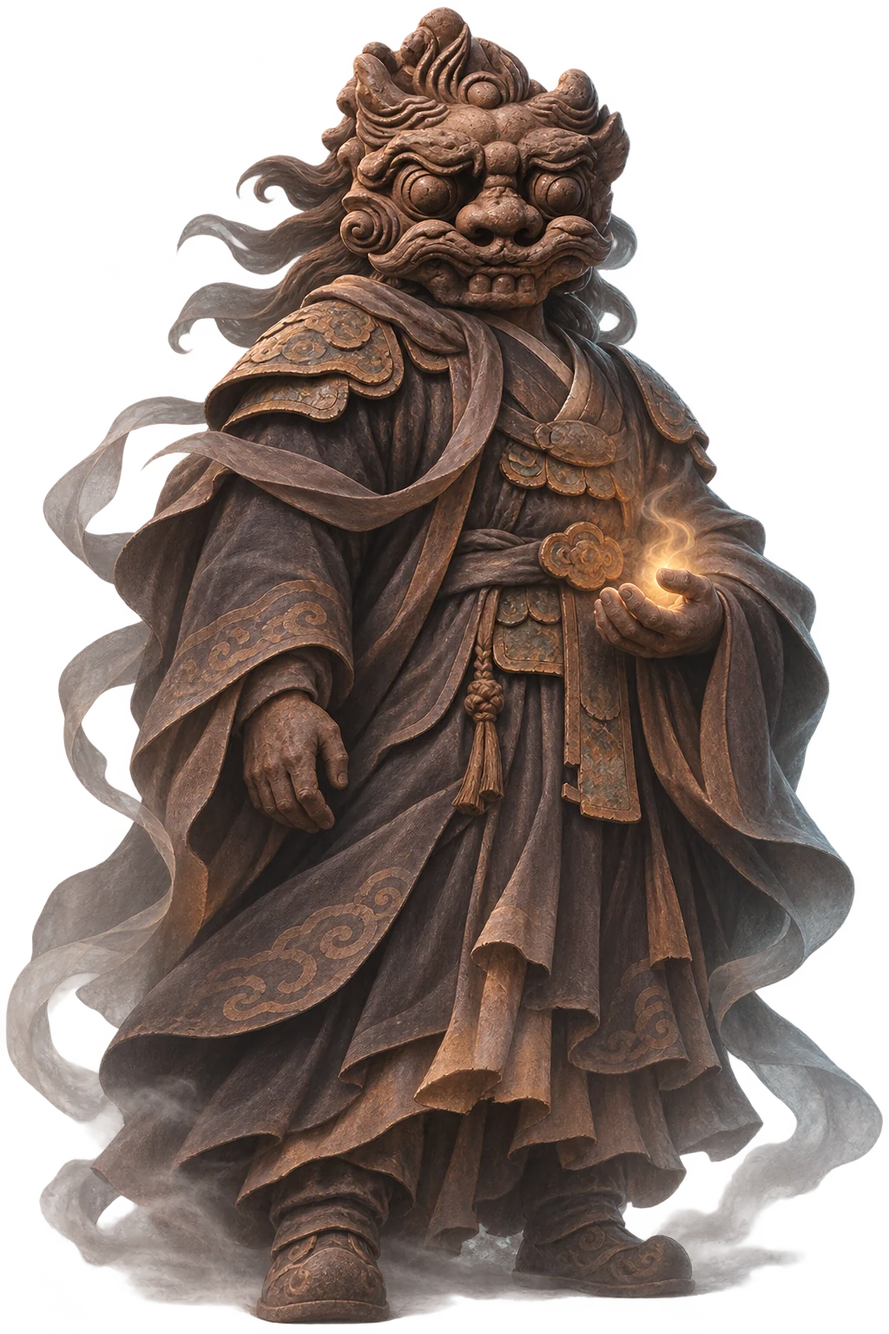
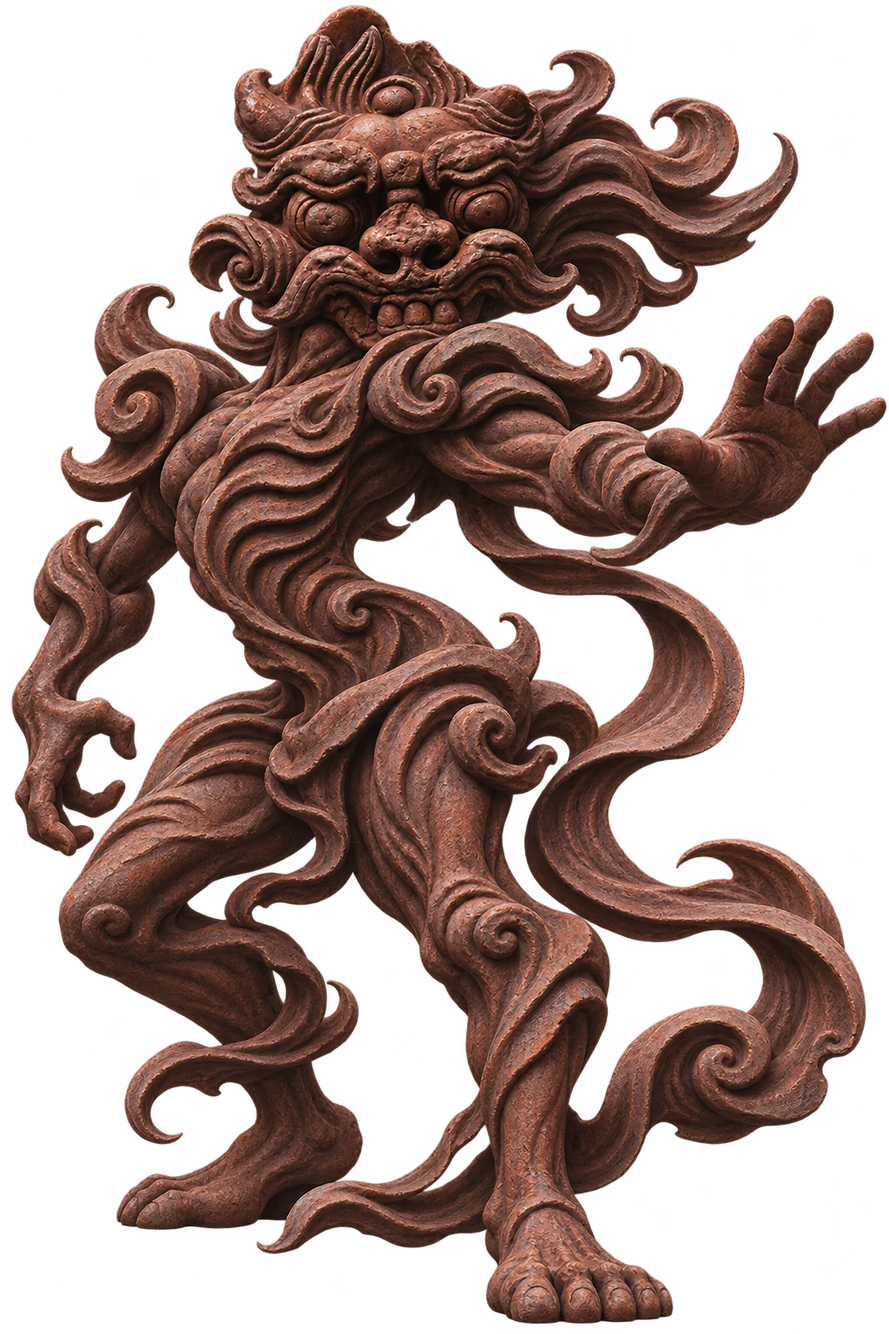
Redesign guardian anatomy and silhouettes from each tile’s visual language

diff --git a/script.js b/script.js
@@ -7,9 +7,9 @@ const objects = [
 
 const details={eye:{title:'01. 둥글게 솟은 눈',copy:'두 눈의 중심이 둥글게 솟아 있습니다. 눈 주변을 감싼 선과 얼굴 표면의 높낮이를 함께 살펴보세요.',x:.45,y:.47},mouth:{title:'02. 입 주변의 선',copy:'코 아래에서 입 주변으로 이어지는 돌출된 선이 보입니다. 양쪽의 모양이 어떻게 마주하고 있는지 관찰해 보세요.',x:.51,y:.59},rim:{title:'03. 반복되는 테두리',copy:'얼굴의 윗 테두리를 따라 둥근 돌기가 반복됩니다. 얼굴 안쪽의 선과 바깥쪽 장식은 어떻게 다르게 보이나요?',x:.52,y:.25}};
 // Every instance references this one registry: same artifact, same imagined character.
-Object.assign(objects[0],{guardian:'guardian-A01.webp',crop:{x:.311,y:.218,w:.378,h:.580},face:{left:37.5,top:7,width:28}});
-Object.assign(objects[1],{guardian:'guardian-A02.webp',crop:{x:.155,y:.125,w:.696,h:.760},face:{left:34.5,top:0,width:36}});
-Object.assign(objects[2],{guardian:'guardian-A03.webp',crop:{x:.222,y:.140,w:.573,h:.650},face:{left:36.5,top:8,width:30}});
+Object.assign(objects[0],{guardian:'guardian-A01.webp',crop:{x:.311,y:.218,w:.378,h:.580},face:{left:19.5,top:2,width:61},characterName:'둥근 흙의 수호자',characterAlt:'밝은 흙빛의 둥근 몸통과 구슬 돌기 관절, 짧고 튼튼한 다리를 가진 정면 입상의 수호자.',designNote:'둥근 눈과 테두리의 돌기를 넓은 몸통·둥근 관절·구슬 같은 발목 돌기로 확장했습니다. 밝은 흙빛과 정면으로 선 자세에 둥근 양감을 이어 담았습니다.'});
+Object.assign(objects[1],{guardian:'guardian-A02.webp',crop:{x:.155,y:.125,w:.696,h:.760},face:{left:24,top:.5,width:41},characterName:'휘감는 선의 수호자',characterAlt:'짙은 흙빛의 휘감는 몸과 흐르는 갈기, 뻗은 손과 굽힌 무릎을 가진 수호자.',designNote:'흐르는 눈썹과 깊은 굴곡을 갈기·가슴·팔·다리까지 이어지는 곡선으로 확장했습니다. 휘어진 몸과 뻗은 손, 구부린 무릎으로 다른 두 수호자와 구별되는 동세를 만들었습니다.'});
+Object.assign(objects[2],{guardian:'guardian-A03.webp',crop:{x:.222,y:.140,w:.573,h:.650},face:{left:17.5,top:5.5,width:65},characterName:'넓은 웃음의 수호자',characterAlt:'회색의 넓은 몸과 소용돌이 관절, 큰 손발을 펼치고 낮게 앉은 수호자.',designNote:'넓게 펼쳐진 입과 둥근 볼 장식을 낮고 넓게 앉은 체구·소용돌이 관절·큰 손발로 확장했습니다. 사진의 회색 표면과 가로로 펼쳐진 형태를 몸 전체의 인상에 이어 담았습니다.'});
 const officialURL=o=>`https://www.museum.go.kr/MUSEUM/contents/M0502000000.do?relicId=${o.relic}&schM=view&searchId=search`;
 const $=s=>document.querySelector(s);
 const $$=s=>[...document.querySelectorAll(s)];
@@ -36,7 +36,7 @@ function fitLayer(container,scale=1){
 function renderLayer(container,index,scale=1,overlay=true){
  const o=objects[index];container.replaceChildren();container.dataset.objectId=o.id;
  const scene=document.createElement('div');scene.className='layered-scene';scene.dataset.objectId=o.id;
- const base=document.createElement('img');base.className='imagined-character';base.src=`./assets/${o.guardian}`;base.width=1024;base.height=1536;base.alt=`${o.number} 귀면와의 얼굴에서 상상한 도깨비 수호자. AI 창작이며 학술 복원도가 아닙니다.`;base.decoding='async';
+ const base=document.createElement('img');base.className='imagined-character';base.src=`./assets/${o.guardian}?v=5`;base.width=1024;base.height=1536;base.alt=`${o.number}에서 상상한 ${o.characterName}. ${o.characterAlt} AI 창작이며 학술 복원도가 아닙니다.`;base.decoding='async';
  const tile=document.createElement('button');tile.className='tile-overlay';tile.setAttribute('aria-label',`${o.number} 얼굴 위 실제 기와 상세 확대`);tile.title='실제 기와를 눌러 상세 사진 보기';tile.hidden=!overlay;
  tile.style.left=`${o.face.left}%`;tile.style.top=`${o.face.top}%`;tile.style.width=`${o.face.width}%`;
  const crop=document.createElement('span');crop.className='tile-crop';crop.style.aspectRatio=String(o.width*o.crop.w/(o.height*o.crop.h));
@@ -49,7 +49,7 @@ function setLayerVisibility(container,button,show){
  const tile=container.querySelector('.tile-overlay');if(tile)tile.hidden=!show;
  button.setAttribute('aria-pressed',String(show));button.textContent=show?'기와 겹침 숨기기':'실제 기와 겹쳐 보기';
 }
-$$('[data-layered]').forEach(container=>renderLayer(container,Number(container.dataset.layered)));
+$$('[data-layered]').forEach(container=>{const index=Number(container.dataset.layered),o=objects[index];renderLayer(container,index);const caption=container.closest('.character-figure')?.querySelector('figcaption');if(caption){const note=document.createElement('p');note.className='character-design-note';const title=document.createElement('strong');title.textContent=o.characterName;note.append(title,document.createElement('br'),document.createTextNode(o.designNote));caption.prepend(note);}});
 $$('[data-layer-toggle]').forEach(button=>button.addEventListener('click',()=>{
  const container=button.closest('.character-figure').querySelector('[data-layered]');setLayerVisibility(container,button,button.getAttribute('aria-pressed')!=='true');
 }));
@@ -61,7 +61,7 @@ function scaleSide(side,delta){
 function renderSide(side){
  const state=sideState[side],o=objects[state.index];renderLayer($(`#${side}-image`),state.index,state.scale,state.overlay);
  $(`#${side}-select`).value=String(state.index);
- $(`#${side}-info`).innerHTML=`<span class="label">${o.era} · ${o.number}</span><h3>도깨비얼굴무늬 기와</h3><p>${o.material}<br>${o.size}</p><p><span class="label">실제 사진에서 관찰하기</span><br>${o.observation}</p><p class="small">캐릭터와 얼굴 위 배치는 AI 창작 상상입니다.</p><a href="${officialURL(o)}" target="_blank" rel="noopener">사진 © 국립중앙박물관 · 공공누리 제1유형 · 원문 ↗</a>`;
+ $(`#${side}-info`).innerHTML=`<span class="label">${o.era} · ${o.number}</span><h3>도깨비얼굴무늬 기와</h3><p>${o.material}<br>${o.size}</p><p><span class="label">실제 사진에서 관찰하기</span><br>${o.observation}</p><p class="character-design-note"><span class="label">기와에서 이어진 형태 · ${o.characterName}</span><br>${o.designNote}</p><p class="small">캐릭터와 얼굴 위 배치는 AI 창작 상상입니다.</p><a href="${officialURL(o)}" target="_blank" rel="noopener">사진 © 국립중앙박물관 · 공공누리 제1유형 · 원문 ↗</a>`;
  setLayerVisibility($(`#${side}-image`),$(`[data-side-toggle="${side}"]`),state.overlay);scaleSide(side,0);
  $('#comparison-note').textContent=sideState.left.index===sideState.right.index?'같은 기와를 선택하면 같은 캐릭터와 같은 겹침 위치가 표시됩니다.':'각 수호자의 얼굴 위 실제 기와를 눌러 눈·입·윤곽을 자세히 비교해 보세요.';
 }
@@ -117,7 +117,7 @@ $$('[data-side-view]').forEach(button=>button.addEventListener('click',()=>showA
 $('#zoom-in').addEventListener('click',()=>scaleViewer(.25));$('#zoom-out').addEventListener('click',()=>scaleViewer(-.25));$('#zoom-reset').addEventListener('click',()=>{viewerScale=1;scaleViewer(0);$('.viewer-viewport').scrollTop=0;$('.viewer-viewport').scrollLeft=0;});
 $('#original-toggle').addEventListener('click',()=>{viewerOriginal=!viewerOriginal;$('.viewer-viewport').classList.toggle('show-original',viewerOriginal);$('#original-toggle').setAttribute('aria-pressed',String(viewerOriginal));$('#original-toggle').textContent=viewerOriginal?'배경 가린 기와 보기':'원본 사진 보기';$('#viewer-treatment').textContent=viewerOriginal?'촬영 배경이 포함된 국립중앙박물관 원본 사진입니다.':'실제 기와 사진의 촬영 배경을 가린 화면입니다.';});
 function sizeGuardian(delta){guardianScale=Math.max(1,Math.min(3,guardianScale+delta));fitLayer($('.guardian-viewport'),guardianScale);$('#guardian-scale').textContent=`${Math.round(guardianScale*100)}%`;$('#guardian-minus').disabled=guardianScale===1;$('#guardian-plus').disabled=guardianScale===3;}
-function openGuardian(index){guardianIndex=index;guardianScale=1;const o=objects[index];$('#guardian-title').textContent=`${o.number}에서 상상한 수호자`;$('.guardian-disclaimer').textContent=`${o.number} 기와 위에 상상한 얼굴과 몸을 연결했습니다. 캐릭터와 얼굴 배치는 AI 창작 상상이며 역사적 복원이 아닙니다.`;openDialog($('#guardian-dialog'));renderLayer($('.guardian-viewport'),index);setLayerVisibility($('.guardian-viewport'),$('#guardian-layer-toggle'),true);sizeGuardian(0);$('.guardian-viewport').scrollTop=0;$('.guardian-viewport').scrollLeft=0;}
+function openGuardian(index){guardianIndex=index;guardianScale=1;const o=objects[index];$('#guardian-title').textContent=`${o.number} · ${o.characterName}`;$('.guardian-disclaimer').textContent=`${o.designNote} 캐릭터와 얼굴 배치는 AI 창작 상상이며 역사적 복원이 아닙니다.`;openDialog($('#guardian-dialog'));renderLayer($('.guardian-viewport'),index);setLayerVisibility($('.guardian-viewport'),$('#guardian-layer-toggle'),true);sizeGuardian(0);$('.guardian-viewport').scrollTop=0;$('.guardian-viewport').scrollLeft=0;}
 $$('[data-guardian]').forEach(button=>button.addEventListener('click',()=>openGuardian(Number(button.dataset.guardian))));
 $$('[data-side-guardian]').forEach(button=>button.addEventListener('click',()=>openGuardian(sideState[button.dataset.sideGuardian].index)));
 $('#guardian-plus').addEventListener('click',()=>sizeGuardian(.25));$('#guardian-minus').addEventListener('click',()=>sizeGuardian(-.25));$('#guardian-reset').addEventListener('click',()=>{guardianScale=1;sizeGuardian(0);$('.guardian-viewport').scrollTop=0;$('.guardian-viewport').scrollLeft=0;});

diff --git a/index.html b/index.html
@@ -4,7 +4,7 @@
 <meta charset="utf-8"><meta name="viewport" content="width=device-width,initial-scale=1">
 <meta name="description" content="귀면와 세 점을 직접 관찰하고 비교하는 비공식 디지털 문화유산 시범 전시.">
 <title>천 년 전의 경고 — 지붕 위의 수호자, 귀면와</title>
-<link rel="stylesheet" href="./style.css?v=4"><script src="./script.js?v=4" defer></script>
+<link rel="stylesheet" href="./style.css?v=5"><script src="./script.js?v=5" defer></script>
 </head>
 <body>
 <svg xmlns="http://www.w3.org/2000/svg" class="clip-definitions" width="0" height="0" aria-hidden="true" focusable="false"><defs>
@@ -26,7 +26,7 @@
 </section>
 <section id="observe" class="scene" aria-labelledby="observe-title" hidden>
 <p class="eyebrow">EXHIBITION 01 <span>—</span> LOOK CLOSER</p><h2 id="observe-title" tabindex="-1">얼굴의 정체</h2><p class="lead">당신은 이 얼굴에서 무엇을 가장 먼저 발견했습니까?</p>
-<div class="observation-layout"><figure class="character-figure"><div class="layered-viewport observation-character" data-layered="0"></div><div class="character-actions"><button class="outline" data-layer-toggle aria-pressed="true">기와 겹침 숨기기</button><button class="outline" data-guardian="0">캐릭터 확대 ↗</button><button class="outline" data-view="0">기와 상세 확대 ↗</button></div><div class="character-audio-controls" role="group" aria-label="캐릭터 옆 배경음악 조작"><button data-music-play aria-pressed="false">▶ 재생</button><button data-music-stop>■ 정지</button></div><figcaption>정내902의 얼굴을 토대로 상상한 수호자 위에 실제 기와를 겹쳤습니다.<br>AI 창작 상상 · 역사적 복원 및 실제 설치 위치를 뜻하지 않습니다.<br>사진 © 국립중앙박물관 · 공공누리 제1유형 · <a data-source-link="0" target="_blank" rel="noopener">소장품 원문 ↗</a></figcaption></figure><aside class="observation-text"><span class="label">상상 속 얼굴과 실제 기와</span><h3 id="detail-title">얼굴에 남은 세 가지 단서</h3><p id="detail-copy" aria-live="polite">얼굴 위 기와를 눌러 자세히 보세요. 아래 관찰 버튼을 선택하면 사진을 가리지 않고 눈·입·테두리를 살펴볼 수 있습니다.</p><div class="detail-buttons" role="group" aria-label="사진을 가리지 않는 관찰 지점"><button data-detail="eye" aria-pressed="false">눈의 형태</button><button data-detail="mouth" aria-pressed="false">입 주변</button><button data-detail="rim" aria-pressed="false">테두리</button></div><button class="outline" id="detail-zoom" data-view="0">사진 확대 ↗</button><p class="small muted">관찰 해설은 실제 사진에서 보이는 형태를 설명합니다. 캐릭터의 몸과 복식은 현대적으로 상상했습니다.</p></aside></div>
+<div class="observation-layout"><figure class="character-figure"><div class="layered-viewport observation-character" data-layered="0"></div><div class="character-actions"><button class="outline" data-layer-toggle aria-pressed="true">기와 겹침 숨기기</button><button class="outline" data-guardian="0">캐릭터 확대 ↗</button><button class="outline" data-view="0">기와 상세 확대 ↗</button></div><div class="character-audio-controls" role="group" aria-label="캐릭터 옆 배경음악 조작"><button data-music-play aria-pressed="false">▶ 재생</button><button data-music-stop>■ 정지</button></div><figcaption>정내902의 얼굴을 토대로 상상한 수호자 위에 실제 기와를 겹쳤습니다.<br>AI 창작 상상 · 역사적 복원 및 실제 설치 위치를 뜻하지 않습니다.<br>사진 © 국립중앙박물관 · 공공누리 제1유형 · <a data-source-link="0" target="_blank" rel="noopener">소장품 원문 ↗</a></figcaption></figure><aside class="observation-text"><span class="label">상상 속 얼굴과 실제 기와</span><h3 id="detail-title">얼굴에 남은 세 가지 단서</h3><p id="detail-copy" aria-live="polite">얼굴 위 기와를 눌러 자세히 보세요. 아래 관찰 버튼을 선택하면 사진을 가리지 않고 눈·입·테두리를 살펴볼 수 있습니다.</p><div class="detail-buttons" role="group" aria-label="사진을 가리지 않는 관찰 지점"><button data-detail="eye" aria-pressed="false">눈의 형태</button><button data-detail="mouth" aria-pressed="false">입 주변</button><button data-detail="rim" aria-pressed="false">테두리</button></div><button class="outline" id="detail-zoom" data-view="0">사진 확대 ↗</button><p class="small muted">관찰 해설은 실제 사진에서 보이는 형태를 설명합니다. 캐릭터의 몸·관절·자세는 기와의 조형에서 현대적으로 상상했습니다.</p></aside></div>
 </section>
 <section id="context" class="scene context" aria-labelledby="context-title" hidden>
 <p class="eyebrow">EXHIBITION 02 <span>—</span> BEYOND THE FACE</p><h2 id="context-title" tabindex="-1">지붕 위의 수호자</h2><p class="lead">무서운 얼굴은 어떻게 보호의 상징이 되었을까요?</p>

diff --git a/style.css b/style.css
@@ -150,3 +150,5 @@ body.no-motion *,body.no-motion *::before,body.no-motion *::after{animation:none
 @media(max-width:720px){.main-character,.observation-character{height:550px}.compare-image.layered-viewport{height:550px}.outro-character{height:520px}.character-actions{gap:8px}.character-actions button{font-size:.875rem}.character-audio-controls{justify-content:center}.guardian-viewport.layered-viewport{height:50dvh}.observation-text h3{min-height:0}}
 .context-character{height:480px}.context-guardian figcaption{font-size:.8125rem}
 @media(max-width:720px){.context-character{height:480px}}
+.character-design-note{font-size:.875rem;line-height:1.85;color:var(--muted);margin:12px 0 18px;max-width:48em}
+.character-design-note strong,.character-design-note .label{color:#d8c293;font-size:.9375rem;font-weight:400}

diff --git a/README.md b/README.md
@@ -10,7 +10,7 @@
 
 각 귀면와에서 상상한 도깨비 캐릭터의 얼굴 위치에 **실제 소장품 사진**을 겹쳤습니다. 얼굴 위 기와를 누르면 해당 작품의 원본 확대·관찰 해설·크기·시대·출처가 열립니다. ‘기와 겹침 숨기기’로 상상한 얼굴만 볼 수도 있습니다.
 
-캐릭터의 몸·복식·완성된 얼굴·겹침 위치는 **AI 창작 상상**이며 학술 복원도나 실제 건축 설치 위치가 아닙니다. 원본이라는 표현은 국립중앙박물관의 실제 사진에만 사용합니다.
+캐릭터의 몸·관절·자세·완성된 얼굴·겹침 위치는 **AI 창작 상상**이며 학술 복원도나 실제 건축 설치 위치가 아닙니다. 원본이라는 표현은 국립중앙박물관의 실제 사진에만 사용합니다.
 
 하나의 자료 목록에서 유물·캐릭터·사진·겹침 위치를 관리하므로 같은 기와는 도입·관찰·비교·확대·마무리에서 같은 캐릭터로 표시됩니다.
 
@@ -19,6 +19,14 @@
 | 정내902 / 통일신라 | assets/A01.jpg | assets/guardian-A01.webp |
 | 정내894 / 통일신라 | assets/A02.jpg | assets/guardian-A02.webp |
 | 정내1031 / 고려 | assets/A03.jpg | assets/guardian-A03.webp |
+
+## 유물의 조형을 몸 전체로 확장한 캐릭터
+
+- **정내902 / 둥근 흙의 수호자:** 밝은 흙빛·둥근 눈·테두리 돌기를 둥근 몸통, 구슬 돌기 관절, 짧고 튼튼한 다리와 정면 입상으로 연결했습니다.
+- **정내894 / 휘감는 선의 수호자:** 깊은 굴곡·흐르는 눈썹을 전신의 갈기와 곡선으로 연결했습니다. 몸을 비틀고 한 손을 뻗은 비대칭 자세입니다.
+- **정내1031 / 넓은 웃음의 수호자:** 회색 표면·넓은 입·둥근 볼 장식을 낮게 앉은 넓은 체구, 소용돌이 관절과 큰 손발로 연결했습니다.
+
+캐릭터 이미지 자체를 다시 제작했으며, 공통 복식의 몸을 재사용하지 않았습니다. 각 화면과 확대 모달의 해설에서 사진의 관찰 특징과 이를 몸으로 확장한 창작 선택을 구분합니다. 이 이름과 설정은 전시용 창작입니다.
 
 ## 구현 기능
 
@@ -74,7 +82,7 @@ guardians-above/
 
 국립중앙박물관의 실제 사진 3점을 원본 파일 그대로 보존했습니다. 각 공식 소장품 페이지에서 **공공누리 제1유형(출처표시)**을 확인했으며, 페이지에 기관명·작품명·번호·이용 조건·원문 링크를 표시했습니다. 자세한 검증은 [sources.md](sources.md)를 확인하세요.
 
-화면에서는 CSS/SVG 외곽 마스크와 표시 영역으로 촬영 배경을 가립니다. 원본 픽셀을 AI로 다시 그리지 않았습니다. 실제 표면과 경계는 상세 화면의 ‘원본 사진 보기’에서 확인할 수 있습니다. 캐릭터 이미지는 별도 AI 창작으로 표시하고 유물의 사실 근거로 사용하지 않습니다. 캐릭터는 WebP로 최적화해 PNG 시안 대비 전송 용량을 약 87% 줄였습니다.
+화면에서는 CSS/SVG 외곽 마스크와 표시 영역으로 촬영 배경을 가립니다. 원본 픽셀을 AI로 다시 그리지 않았습니다. 실제 표면과 경계는 상세 화면의 ‘원본 사진 보기’에서 확인할 수 있습니다. 캐릭터 이미지는 별도 AI 창작으로 표시하고 유물의 사실 근거로 사용하지 않습니다. 캐릭터는 WebP로 최적화해 PNG 시안 대비 전송 용량을 약 86% 줄였습니다.
 
 ## 검증
 

diff --git a/sources.md b/sources.md
@@ -54,9 +54,15 @@ https://www.culture.go.kr/portal/cltKnw/usePtt/viewOrigin.do?did=6410&gubun=all&
 | 정내1031 | assets/guardian-A03.webp | assets/A03.jpg | 비교, 캐릭터 확대 |
 
 - 모두 1024×1536, 투명 WebP. 이미지 생성 도구로 만든 PNG 시안을 전시용으로 인코딩했다. 원래 생성 PNG는 작업 공간 generated_images에 별도 남겨 두었다.
-- 정내902는 밝은 흙빛·둥글게 솟은 눈·테두리의 둥근 돌기, 정내894는 흐르는 눈썹·넓은 코·깊은 굴곡, 정내1031은 회색 표면·넓은 입·둥근 뺨 장식에서 영감을 받았다.
-- 머리카락·몸·의복·갑옷·손의 불빛·완성된 얼굴은 AI 창작 상상이다. 실제 인물·고대 복식·학술 복원도·기관이 제공한 이미지가 아니다. ‘복원되면 반드시 이런 모습’이라고 주장하지 않는다.
+- 정내902 ‘둥근 흙의 수호자’: 밝은 흙빛·둥근 눈·테두리 돌기에서 둥근 몸통, 구슬 돌기 관절과 정면 입상을 창작했다.
+- 정내894 ‘휘감는 선의 수호자’: 흐르는 눈썹·넓은 코·깊은 굴곡에서 몸을 휘감는 갈기와 비대칭 자세, 뻗은 손을 창작했다.
+- 정내1031 ‘넓은 웃음의 수호자’: 회색 표면·넓은 입·둥근 볼 장식에서 낮고 넓게 앉은 체구, 소용돌이 관절과 큰 손발을 창작했다.
+- 머리와 몸의 전체 형상·관절·자세·완성된 얼굴·캐릭터 이름은 AI 창작 상상이다. 세 캐릭터는 각 기와의 조형을 몸 전체로 확장하도록 별도로 생성했다. 실제 인물·고대 복식·학술 복원도·기관이 제공한 이미지가 아니다. ‘복원되면 반드시 이런 모습’이라고 주장하지 않는다.
 - 실제 사진을 생성 이미지의 얼굴 위에 별도 HTML 요소로 겹친다. 사진 픽셀은 원본 그대로이며 CSS 표시 영역과 외곽 마스크로 촬영 배경을 가린다. 캐릭터와 기와의 위치·비율은 시각적 연출을 위한 선택으로, 원래 건물의 설치 위치를 추정한 연구 결과가 아니다.
 - script.js의 단일 유물 목록에서 캐릭터 파일·실제 사진·겹침 좌표를 관리한다. 같은 유물은 화면을 바꿔도 같은 파일과 좌표를 사용한다.
 - 원본 유물의 사실 검증 자료로 AI 캐릭터를 사용하지 않는다. 국립중앙박물관이 제작하거나 승인한 캐릭터가 아니다. 실제 사진의 공공누리 조건과 출처 표시는 유지한다.
 - 이전 배경 분리 생성 시안 3점은 웹전시에 사용하지 않았다. 실제 기와는 보존한 원본 사진만 사용한다.
+
+## 캐릭터 재설계 검토
+
+이전 시안은 공통된 전신 복식과 자세가 유물별 차이를 약하게 만들었다. 이번 시안은 세 실제 사진을 각각 독립 참고로 사용하고, 기존 캐릭터를 참조 이미지로 제공하지 않았다. 동일한 박물관 일러스트 분위기 안에서 체형·동세·표면색·장식의 연결을 다르게 설계했다. 세 생성 결과를 직접 열어 몸 전체의 차이를 확인했으며 새 얼굴에 맞춰 원본 기와의 겹침 좌표도 조정했다. 이는 역사적 복원을 검증한 절차가 아니다.

diff --git a/prompts.md b/prompts.md
@@ -25,3 +25,12 @@
 새 이미지 프롬프트: 실제 A01 또는 A03 사진과 기존 A02 캐릭터를 두 참고 이미지로 제공. A01의 밝은 흙빛·둥글게 솟은 눈·테두리 돌기, A03의 회색 얼굴·넓게 펼친 입·둥근 뺨 장식에서 각각 다른 수호자를 상상. 기존 캐릭터와 같은 전신 구도·어두운 옷·흙빛 갑옷·손의 작은 불빛·2:3 투명 배경·차분한 분위기를 유지. 실제 유물이나 학술 복원도가 아니며 실제 기와 사진은 웹에서 별도 겹칠 것이므로 새 평면 유물 사진을 만들지 않는다고 명시. 생성 결과를 유물별 한 파일로 관리하고 같은 기와가 등장하는 모든 화면에서 재사용.
 
 최종 관람 검토는 review.md에 문제·수정·확인 범위로 기록했다. 브라우저 육안 검사나 실제 관람객 실험을 수행한 것으로 기록하지 않았다.
+
+9. 사용자 재검토 요청: 캐릭터가 같은 몸과 복식에 얼굴 문양만 달라 보인다. 기와의 느낌이 캐릭터 전체에 이어져야 하므로 다시 수정·검토할 것.
+
+재설계 프롬프트는 기존 캐릭터를 참조하지 않고 각 실제 기와 사진 한 장만 제공했다. 공통의 박물관 콘셉트 아트 스타일·투명 배경·전신 2:3 프레임을 유지하면서 아래 조형을 각각 요청했다.
+- A01: 밝은 모래/상아빛 점토의 둥글고 넓은 체형, 큰 구형 눈, 테두리의 둥근 돌기가 머리·어깨·관절·배·발목으로 반복, 짧고 튼튼한 다리와 펼친 손바닥, 정면에서 안정적으로 선 수호자. 긴 옷·무기·불빛·상투 제외.
+- A02: 짙은 적갈색 점토, 불꽃 같은 이마선·깊은 눈썹과 수염을 전신의 갈기·어깨·흉곽·긴 팔과 다리의 곡선으로 확장. 비대칭 S자 몸, 굽힌 무릎, 앞으로 뻗은 손, 바람처럼 흐르는 조형. 일반적 전사 복식·불빛·상투 제외.
+- A03: 회색으로 풍화된 점토, 넓은 직사각형 얼굴과 넓은 미소를 낮고 넓은 몸에 연결. 큰 사각 손마디와 펼친 발, 소용돌이 어깨·무릎, 양손을 무릎에 놓고 낮게 앉은 안정적 자세. 옷·무기·상투·불빛 제외.
+
+얼굴에 실제 기와 사진을 겹치는 기능은 별도의 HTML 요소로 유지한다. 캐릭터의 실제 생성 결과를 보고 새 겹침 좌표와 대체 텍스트·창작 해설을 갱신했다. 이미지 자체 검토와 브라우저 화면 검증을 구분해 기록했다.

diff --git a/review.md b/review.md
@@ -38,3 +38,18 @@
 - Tab·Shift+Tab·Enter·Space·Esc, 네이티브 dialog의 포커스 가두기와 스크린리더
 - 실제 자동재생 허용/차단, 첫 조작 재생, 시스템 음량, 청취·모바일 탭 이동
 - 실제 관람객이 ‘AI 창작 상상’과 실제 유물을 명확히 구분하는지 평가
+
+## 캐릭터 전체 조형 재검토와 수정
+
+이전 검토는 같은 파일을 재사용하는지와 조작 연결 확인에 집중해, 유물의 특징이 캐릭터 전체에서 드러나는지 충분히 다루지 못했다. 이번에는 생성 이미지 자체를 열어 실루엣·동작·재질·장식의 차이를 살폈다.
+
+| 기준 | 정내902 | 정내894 | 정내1031 |
+|---|---|---|---|
+| 사진에서 출발한 단서 | 둥근 눈·테두리 돌기·밝은 흙빛 | 깊은 굴곡·흐르는 눈썹·짙은 흙빛 | 넓은 입·둥근 볼 장식·회색 표면 |
+| 몸 전체로 확장한 조형 | 둥근 몸통과 구슬 돌기 관절 | 갈기와 팔다리까지 휘감는 곡선 | 낮고 넓은 체구와 소용돌이 관절 |
+| 자세 | 정면에서 두 발로 서고 손바닥을 펼침 | 몸을 비틀고 무릎을 굽히며 한 손을 뻗음 | 두 무릎을 벌려 낮게 앉고 손을 무릎 위에 놓음 |
+| 전체 인상 | 밝고 둥글며 묵직함 | 길게 흐르고 역동적임 | 넓고 낮으며 안정적임 |
+
+세 이미지를 새로 생성하고 공통 복식·같은 몸의 재사용을 제거했다. 새 머리의 위치와 크기에 맞춰 실제 기와 겹침 좌표를 조정했다. 각 캐릭터의 이름과 ‘기와에서 이어진 형태’ 해설을 관람 화면·비교 카드·확대 모달에 넣었다. 이 내용은 학술적 사실이 아니라 창작 선택으로 표시한다.
+
+이미지 자체의 차이는 확인했지만, 실제 관람객이 어떤 인상을 받는지에 대한 사용자 실험은 수행하지 않았다. 실제 브라우저에서 겹침 경계가 정확한지는 여전히 미검증이다. DOM 검사는 같은 유물의 이미지·배치·해설 일관성 및 기존 관람/음악 동작을 확인한다.

diff --git a/verification.md b/verification.md
@@ -107,3 +107,12 @@ POST /repos/twksex/guardians-above/pages로 main 및 루트 폴더를 지정해 
 - 같은 문서 내 SVG 마스크·백분율 얼굴 위치·원본 사진 비율을 유지한다. 창 크기·글자 크기·화면 이동 후 표시 영역에 맞춰 전체 캐릭터와 기와를 함께 재계산한다. 실제 화면의 얼굴 경계 정합성은 미검증이다.
 - 캐릭터 PNG를 투명 WebP로 최적화해 전송 용량을 약 87% 줄였다. 생성 원본은 별도 경로에 보존한다.
 - 관람자 관점의 문제·수정·확인 범위는 review.md. 실제 관람객 테스트 및 지정 도구가 필요한 브라우저 렌더링·청취는 수행하지 않았다.
+
+## 캐릭터 전신 재설계 후 검사
+
+- 각 실제 기와 한 장만 참고해 캐릭터 3종을 새로 생성했다. 생성된 PNG를 직접 열어 체형·자세·표면색·장식이 다르게 반영되었는지 확인했다. 실제 브라우저 렌더링 검사는 아니다.
+- 새 파일은 각각 1024×1536 투명 WebP이며 총 1,261,098바이트. 생성 PNG 총 9,243,488바이트 대비 약 86.4% 작다. 생성 원본은 별도 경로에 보존했다.
+- 얼굴 크기와 위치를 다시 맞추고, 같은 유물의 겹침 좌표를 한 목록에서 재사용한다. 새 이미지에는 캐시 갱신 query를 붙여 이전 캐릭터가 남지 않도록 했다.
+- 캐릭터별 대체 텍스트와 창작 해설을 추가했다. 실제 유물 관찰 설명과 창작을 연결한 설명을 구분한다.
+- 구문·정적 파일/이미지/대비 검사, 관찰/비교의 같은 이미지·겹침 위치 일치, 비교 선택별 대응 해설·기와 상세 연결, 모달/음악/재관람 통합 검사 통과. 공식 원본 사진 3점과 음원은 변경하지 않았다.
+- 실제 브라우저에서 얼굴 겹침 경계·터치·음향 및 실제 관람객의 캐릭터 인식은 미검증이다.

diff --git a/plan.md b/plan.md
@@ -34,3 +34,7 @@
 ## 최종 통합 관람 흐름
 
 유물별 상상 캐릭터 3종을 만들고 단일 목록에서 캐릭터·사진·얼굴 겹침 좌표를 관리한다. 도입과 마무리는 정내894, 관찰은 정내902, 비교는 세 점 중 두 점을 선택한다. 같은 작품이 나오는 화면은 같은 캐릭터를 사용한다. 실제 기와를 얼굴에 겹쳐 클릭하면 해당 유물 상세 모달을 열며, 겹침을 숨겨 상상한 얼굴도 볼 수 있다. 번호는 사진 밖의 관찰 버튼으로 옮긴다. 상단 음악 바를 제거하고 각 전시관 캐릭터 옆 재생·정지를 둔다. 페이지 진입 자동재생을 시도하되 브라우저 차단·사용자의 명시적 정지를 존중한다. 정지는 음원 위치를 0으로 되돌린다. 관람자 관점 검토·수정 범위 및 남은 검증은 review.md에 기록한다.
+
+## 전신 조형 재설계
+
+캐릭터는 얼굴뿐 아니라 원래 기와의 조형 언어가 몸 전체로 이어지게 한다. 정내902는 둥근 양감·돌기·밝은 색을 둥근 몸과 관절에, 정내894는 깊은 굴곡과 흐르는 선을 비대칭의 역동적 전신에, 정내1031은 넓은 입과 볼 장식을 낮고 넓은 체구와 큰 손발에 연결한다. 이름과 체형은 현대적 창작 선택으로 구분하고, 같은 유물의 동일 캐릭터 재사용 및 실제 기와 클릭 상세 기능은 유지한다.
